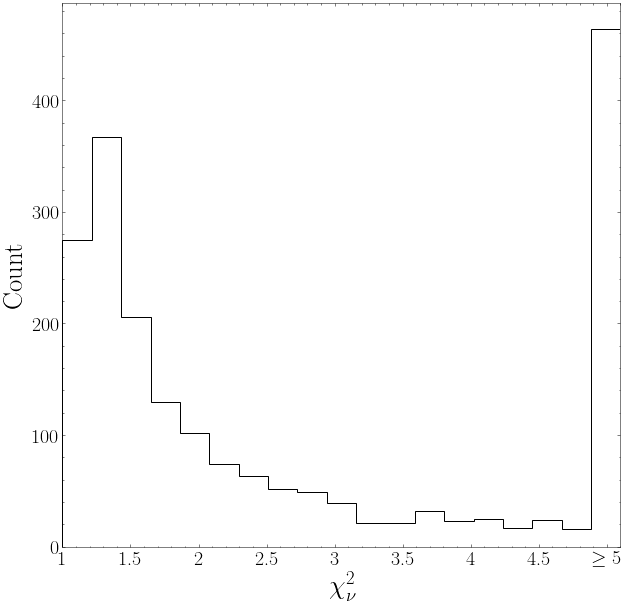
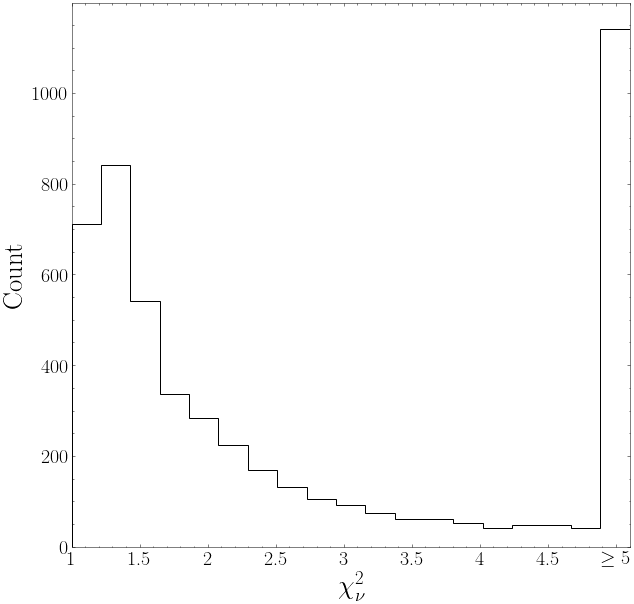
Fixed default param for optim
Former-commit-id: 515b9a565faea242dc877c5c09bd6166c77c6da5
Former-commit-id: 4de18a0abb5539290ce9acaf910f98a9ceebda81 [formerly f6f3f251e881c8c1d3be90d130e9111dda559b30]
Former-commit-id: 69e28f86372b7932340ce23bc37c05fce16afe0a

diff --git a/censai/analytical_physical_modelv2.py b/censai/analytical_physical_modelv2.py
@@ -508,36 +508,42 @@ class AnalyticalPhysicalModelv2:
 
 if __name__ == '__main__':
     import matplotlib.pyplot as plt
-    phys = AnalyticalPhysicalModelv2(
-        pixels=128,
-        image_fov=7.68,
-        src_fov=3.0,
-        psf_cutout_size=16,
-        r_ein_min=0.5,
-        r_ein_max=2.,
-        n_min=1.,
-        n_max=3.,
-        r_eff_min=0.2,
-        r_eff_max=1.,
-        max_gamma=0.1,
-        max_ellipticity=0.4,
-        max_lens_shift=0.3,
-        max_source_shift=0.3,
-        noise_rms_min=0.001,
-        noise_rms_max=0.05,
-        noise_rms_mean=0.008,
-        noise_rms_std=0.008,
-        psf_fwhm_min=0.06,
-        psf_fwhm_max=0.5,
-        psf_fwhm_mean=0.1,
-        psf_fwhm_std=0.1
-    )
-    for i in range(10):
-        lens, x, noise_rms, psf_fwhm = phys.draw_sersic_batch(1)
-        print(x)
-        print(phys.sersic_physical_to_logits(x))
-        print(lens.numpy().max())
-        plt.imshow(lens[0, ..., 0], cmap="hot")
-        plt.colorbar()
-        plt.show()
+    phys = AnalyticalPhysicalModelv2(pixels=128)
+    psi = phys.potential(1, 0.9, 0.3, 0., 0.)
+    kappa = phys.kappa_field(3, 0.9, 0.3, 0., 0.)
+    plt.imshow(psi[0, ..., 0])
+    plt.colorbar()
+    plt.show()
+    # phys = AnalyticalPhysicalModelv2(
+    #     pixels=128,
+    #     image_fov=7.68,
+    #     src_fov=3.0,
+    #     psf_cutout_size=16,
+    #     r_ein_min=0.5,
+    #     r_ein_max=2.,
+    #     n_min=1.,
+    #     n_max=3.,
+    #     r_eff_min=0.2,
+    #     r_eff_max=1.,
+    #     max_gamma=0.1,
+    #     max_ellipticity=0.4,
+    #     max_lens_shift=0.3,
+    #     max_source_shift=0.3,
+    #     noise_rms_min=0.001,
+    #     noise_rms_max=0.05,
+    #     noise_rms_mean=0.008,
+    #     noise_rms_std=0.008,
+    #     psf_fwhm_min=0.06,
+    #     psf_fwhm_max=0.5,
+    #     psf_fwhm_mean=0.1,
+    #     psf_fwhm_std=0.1
+    # )
+    # for i in range(10):
+    #     lens, x, noise_rms, psf_fwhm = phys.draw_sersic_batch(1)
+    #     print(x)
+    #     print(phys.sersic_physical_to_logits(x))
+    #     print(lens.numpy().max())
+    #     plt.imshow(lens[0, ..., 0], cmap="hot")
+    #     plt.colorbar()
+    #     plt.show()
 

diff --git a/scripts/rim_results_v4_and_optim.py b/scripts/rim_results_v4_and_optim.py
@@ -396,14 +396,14 @@ if __name__ == '__main__':
     parser.add_argument("--train_size",         default=100,        type=int)
     parser.add_argument("--sie_size",           default=100,        type=int)
     parser.add_argument("--val_size",           default=100,        type=int)
-    parser.add_argument("--test_size",          default=1000,       type=int)
+    parser.add_argument("--test_size",          default=5000,       type=int)
     parser.add_argument("--buffer_size",        default=10000,      type=int)
     parser.add_argument("--lens_coherence_bins",    default=40,     type=int)
     parser.add_argument("--source_coherence_bins",  default=40,     type=int)
     parser.add_argument("--kappa_coherence_bins",   default=40,     type=int)
     parser.add_argument("--batch_size",         default=1,          help="For SIE")
     parser.add_argument("--re_optimize_steps",  default=400,        type=int)
-    parser.add_argument("--re_optimize_save",   default=40,         type=int)
+    parser.add_argument("--re_optimize_save",   default=2,          type=int)
     parser.add_argument("--converged_chisq",    default=1.005,      type=float, help="Value of the chisq that is considered converged.")
     parser.add_argument("--l2_amp",             default=1e-2,       type=float)
     parser.add_argument("--learning_rate",      default=1e-5,       type=float)
